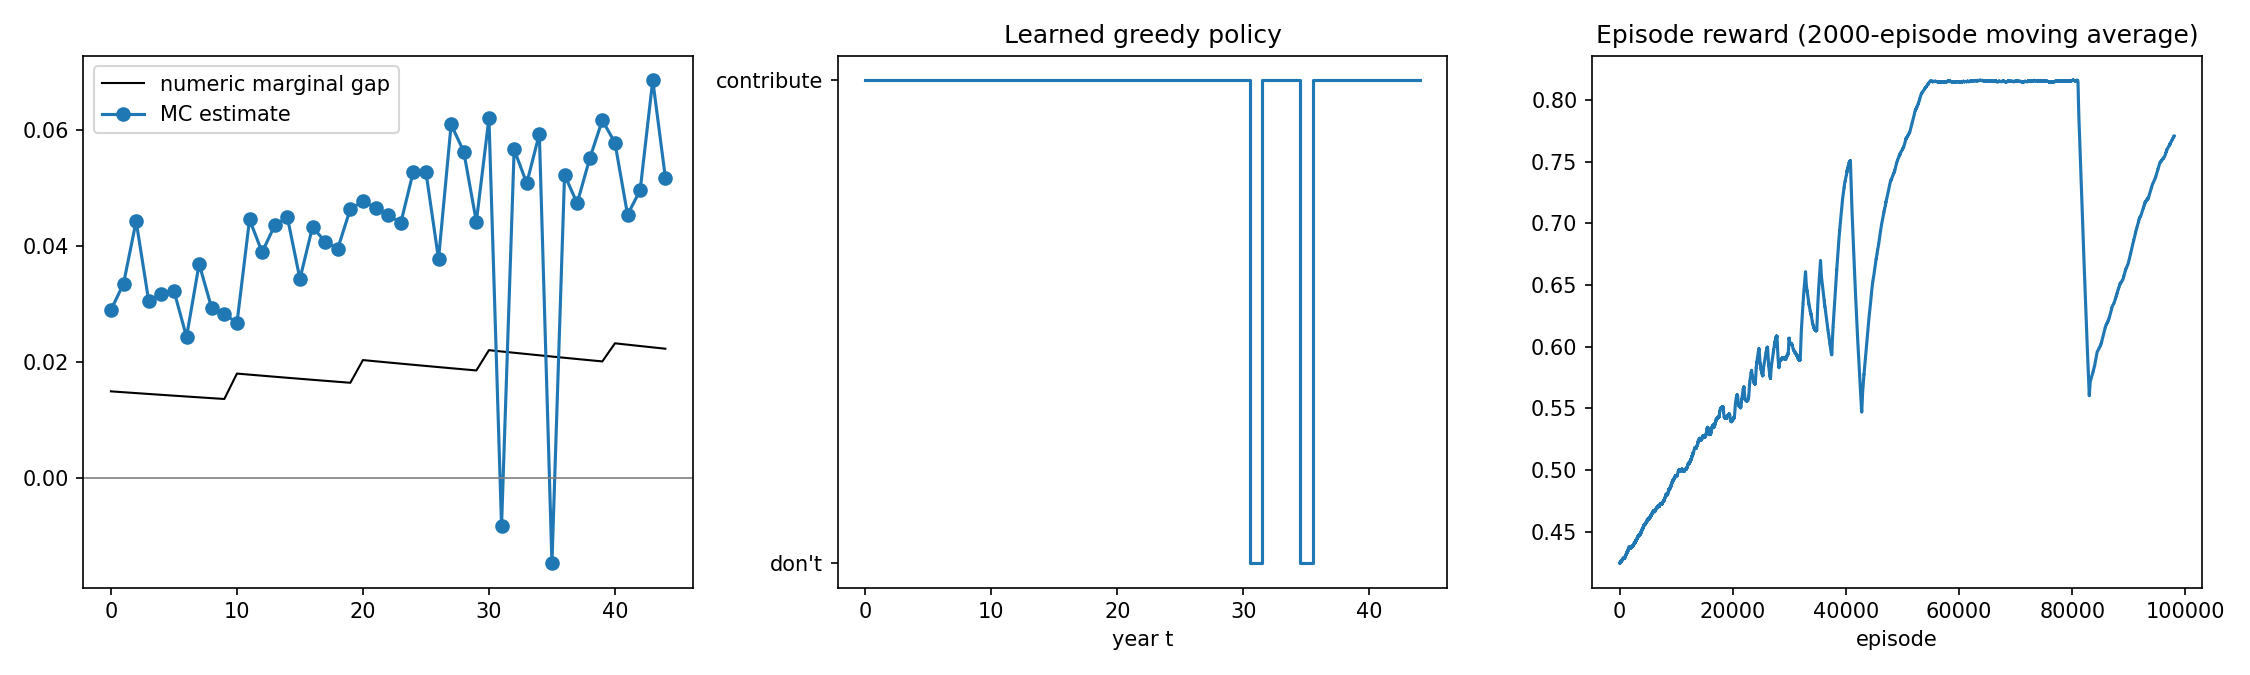
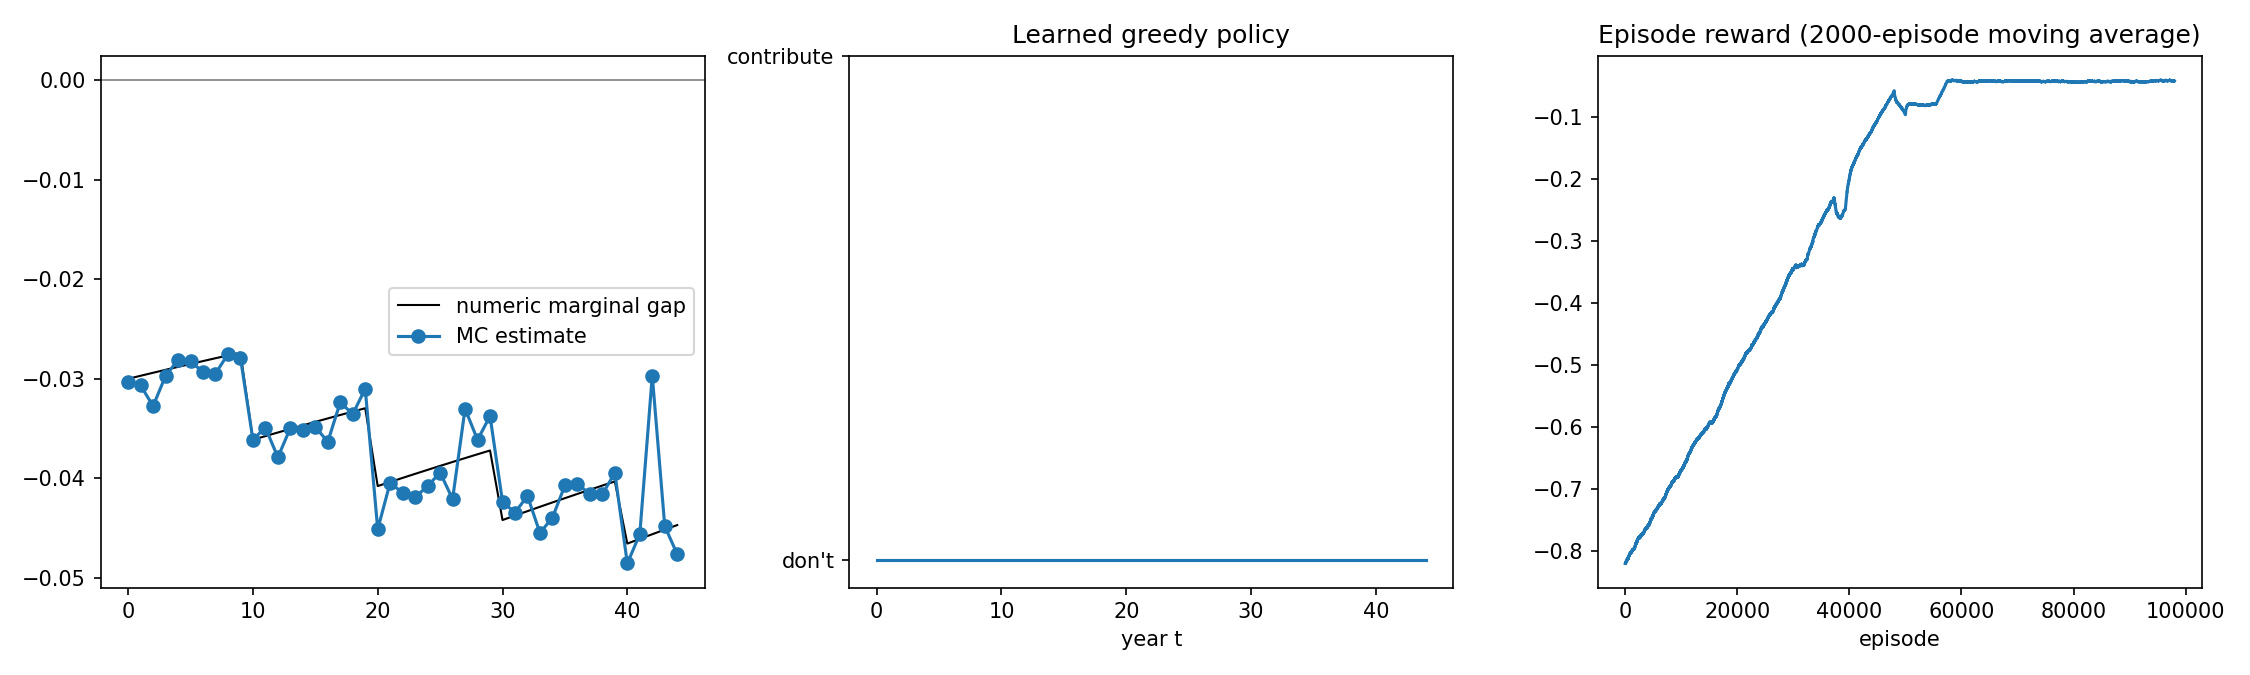
test on two regime paradigm

diff --git a/toyEnv/basic.py b/toyEnv/basic.py
@@ -52,7 +52,7 @@ contributions — both need Monte Carlo averaging at the stochastic rung.
 T = 45          # career length in years
 G = 0.0175      # frozen WAP guarantee rate
 MU = 0.03       # tarrif on mathematical reserve 
-KAPPA = 0.5       # employer-cost weight (> 1, else the shortfall cancels) sensitivy 
+KAPPA = 2       # employer-cost weight (> 1, else the shortfall cancels) sensitivy 
 S0 = 1.0        #starting salary
 W = 0.02        # deterministic salary growth 
 DISC= MU